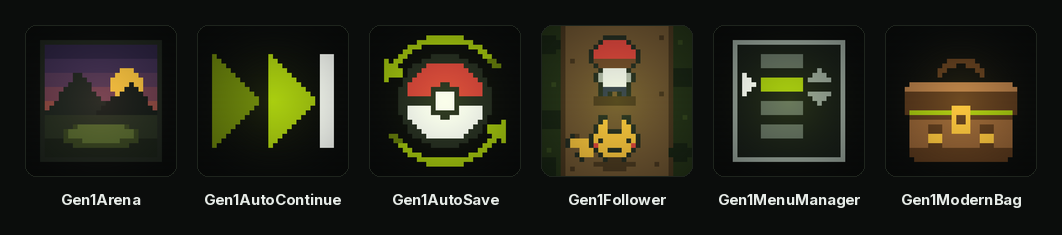
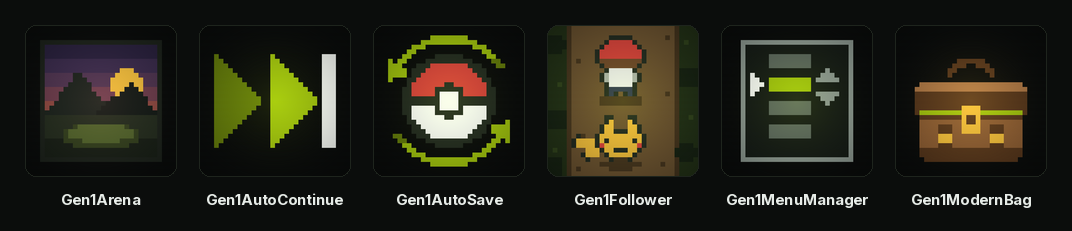
Ring the mod you are looking at, and link the strip home
Every mod repo now carries the family strip under its name, with its own
tile ringed and a "Check out my other mods!" line above it. The strip and
the wordmark both link to the live index, so a reader who arrives at one
mod from a search has a way to the other six that does not depend on them
thinking to look for one.

make_lineup.py grows a highlight and a heading and draws seven strips: the
plain one this README uses, and one per mod. A new entry with a meta.json
and a thumbnail is drawn into all of them on the next run.

Claude-Session: https://claude.ai/code/session_01GGRo1ELnf65FVgZnfJZkU5

diff --git a/tools/make_lineup.py b/tools/make_lineup.py
@@ -1,10 +1,20 @@
 #!/usr/bin/env python3
-"""Draw site/banners/lineup.png: the index's mods, side by side.
+"""Draw the family strip: every mod in the index, side by side.
 
 Every tile is that mod's own thumbnail.png -- the same 512x512 icon its card
 carries in FIND MODS, drawn by tools/make_icons.py -- laid on the index's dark
 card colours.  Nothing here is a mock-up or an illustration of a mod: it is
-the art the feed actually serves, at the size a reader can take in at once.
+the art the feed actually serves, at a size a reader can take in at once.
+
+Two shapes come out of this:
+
+    site/banners/lineup.png           plain, for this repo's own README
+    site/banners/lineup-<Mod>.png     one per mod, that mod ringed, under a
+                                      "Check out my other mods!" line
+
+The per-mod ones are what each mod repo carries at docs/lineup.png, so a
+reader landing on any one of them can see the rest of the family and where
+the page they are on sits in it.
 
     python3 tools/make_lineup.py
 
@@ -25,20 +35,25 @@ from PIL import Image, ImageDraw, ImageFont
 ROOT = pathlib.Path(__file__).resolve().parent.parent
 MODS = ROOT / "mods"
 CACHE = ROOT / "tools" / ".cache"
-OUT = ROOT / "site" / "banners" / "lineup.png"
+OUT = ROOT / "site" / "banners"
 
-# site/index.html's card colours.
+# site/index.html's card colours, and the Game Boy green it uses for links.
 BG = (0x0b, 0x0d, 0x0c)
 PANEL = (0x16, 0x1c, 0x17)
 EDGE = (0x1e, 0x24, 0x1d)
 TEXT = (0xe7, 0xec, 0xe8)
-MUTED = (0x8b, 0x97, 0x8f)
+ACCENT = (0x9b, 0xbc, 0x0f)
 
 TILE = 150          # a thumbnail's drawn size
-GAP = 22            # between tiles
+GAP = 24            # between tiles
 PAD = 26            # around the strip
+RING = 3            # the ring around the mod being viewed
 LABEL = 15          # label type size
 LABEL_GAP = 14      # between a tile and its label
+HEAD = 19           # the "check out" line
+HEAD_GAP = 20       # between it and the tiles
+
+CALL_TO_ACTION = "Check out my other mods!"
 
 
 def gfont(family, weight, size):
@@ -46,7 +61,8 @@ def gfont(family, weight, size):
     path = CACHE / f"{family.replace(' ', '')}-{weight}.ttf"
     if not path.exists():
         CACHE.mkdir(parents=True, exist_ok=True)
-        css = f"https://fonts.googleapis.com/css2?family={family.replace(' ', '+')}:wght@{weight}"
+        css = (f"https://fonts.googleapis.com/css2?family="
+               f"{family.replace(' ', '+')}:wght@{weight}")
         with urllib.request.urlopen(css, timeout=30) as r:
             sheet = r.read().decode()
         m = re.search(r"url\((https://[^)]+\.ttf)\)", sheet)
@@ -61,11 +77,9 @@ def entries():
     """Every mod in the feed that has an icon, in title order."""
     found = []
     for folder in sorted(MODS.iterdir()):
-        meta = folder / "meta.json"
-        thumb = folder / "thumbnail.png"
-        if not (meta.is_file() and thumb.is_file()):
-            continue
-        found.append((json.loads(meta.read_text())["title"], thumb))
+        meta, thumb = folder / "meta.json", folder / "thumbnail.png"
+        if meta.is_file() and thumb.is_file():
+            found.append((json.loads(meta.read_text())["title"], thumb))
     return sorted(found)
 
 
@@ -78,32 +92,55 @@ def rounded(img, radius):
     return img
 
 
+def strip(mods, out, highlight=None, heading=None):
+    """Draw the strip, optionally ringing one mod and topped with a line."""
+    label_font = gfont("Inter", 700, LABEL)
+    head_font = gfont("Inter", 700, HEAD)
+
+    top = PAD + ((HEAD + HEAD_GAP) if heading else 0)
+    width = PAD * 2 + TILE * len(mods) + GAP * (len(mods) - 1)
+    height = top + TILE + LABEL_GAP + LABEL + PAD
+
+    img = Image.new("RGB", (width, height), BG)
+    draw = ImageDraw.Draw(img)
+
+    if heading:
+        draw.text((width / 2, PAD), heading, font=head_font,
+                  fill=ACCENT, anchor="ma")
+
+    x = PAD
+    for title, thumb in mods:
+        here = title == highlight
+        tile = Image.open(thumb).convert("RGB").resize((TILE, TILE),
+                                                       Image.LANCZOS)
+        draw.rounded_rectangle((x - 1, top - 1, x + TILE, top + TILE), 11,
+                               fill=PANEL, outline=EDGE)
+        img.paste(rounded(tile, 10), (x, top), rounded(tile.copy(), 10))
+        if here:
+            # The ring sits outside the tile, in the gap between two of them.
+            draw.rounded_rectangle(
+                (x - RING - 1, top - RING - 1, x + TILE + RING, top + TILE + RING),
+                11 + RING, outline=ACCENT, width=RING)
+        draw.text((x + TILE / 2, top + TILE + LABEL_GAP), title,
+                  font=label_font, fill=ACCENT if here else TEXT, anchor="ma")
+        x += TILE + GAP
+
+    OUT.mkdir(parents=True, exist_ok=True)
+    img.save(out)
+    print(f"  {out.relative_to(ROOT)}  {width}x{height}"
+          + (f"  ({highlight} ringed)" if highlight else ""))
+
+
 def main():
     mods = entries()
     if not mods:
         print("no mods with a thumbnail", file=sys.stderr)
         return 1
 
-    font = gfont("Inter", 700, LABEL)
-    width = PAD * 2 + TILE * len(mods) + GAP * (len(mods) - 1)
-    height = PAD * 2 + TILE + LABEL_GAP + LABEL + 4
-
-    img = Image.new("RGB", (width, height), BG)
-    draw = ImageDraw.Draw(img)
-
-    x = PAD
-    for title, thumb in mods:
-        tile = Image.open(thumb).convert("RGB").resize((TILE, TILE), Image.LANCZOS)
-        draw.rounded_rectangle((x - 1, PAD - 1, x + TILE, PAD + TILE), 11,
-                               fill=PANEL, outline=EDGE)
-        img.paste(rounded(tile, 10), (x, PAD), rounded(tile.copy(), 10))
-        draw.text((x + TILE / 2, PAD + TILE + LABEL_GAP), title,
-                  font=font, fill=TEXT, anchor="ma")
-        x += TILE + GAP
-
-    OUT.parent.mkdir(parents=True, exist_ok=True)
-    img.save(OUT)
-    print(f"  {OUT.relative_to(ROOT)}  {width}x{height}  ({len(mods)} mods)")
+    strip(mods, OUT / "lineup.png")
+    for title, _ in mods:
+        strip(mods, OUT / f"lineup-{title}.png",
+              highlight=title, heading=CALL_TO_ACTION)
     return 0
 
 

diff --git a/README.md b/README.md
@@ -1,5 +1,5 @@
 <p align="center">
-  <img src="docs/banner.png" alt="Gen1Wild" width="560">
+  <a href="https://wild1walker.github.io/Gen1Wild/"><img src="docs/banner.png" alt="Gen1Wild" width="560"></a>
 </p>
 
 <p align="center">
@@ -8,7 +8,7 @@
 </p>
 
 <p align="center">
-  <img src="site/banners/lineup.png" alt="Gen1Arena, Gen1AutoContinue, Gen1AutoSave, Gen1Follower, Gen1MenuManager and Gen1ModernBag" width="920">
+  <a href="https://wild1walker.github.io/Gen1Wild/"><img src="site/banners/lineup.png" alt="Gen1Arena, Gen1AutoContinue, Gen1AutoSave, Gen1Follower, Gen1MenuManager and Gen1ModernBag" width="920"></a>
 </p>
 
 ## What is in the index
@@ -153,8 +153,19 @@ The strip of icons under it is generated, from the mods' own thumbnails:
 python3 tools/make_lineup.py
 ```
 
-It writes `site/banners/lineup.png`, needs `Pillow`, and fetches its label
-font from Google Fonts once into `tools/.cache/`, which is not committed.
+It writes `site/banners/lineup.png` -- the plain one, above -- and one
+`lineup-<Mod>.png` per mod, which is the same strip with that mod ringed
+under a **Check out my other mods!** line. Each mod repo carries its own as
+`docs/lineup.png` and links it, and its wordmark, back to the live index, so
+a reader who lands on any one mod can see the rest of the family and where
+the page they are on sits in it.
+
+Both need `Pillow`, and fetch the label font from Google Fonts once into
+`tools/.cache/`, which is not committed.
+
+A new mod is picked up automatically: it needs a `meta.json` and a
+`thumbnail.png` like any other entry, and the next run draws it into every
+strip.
 
 ## The icons
 
